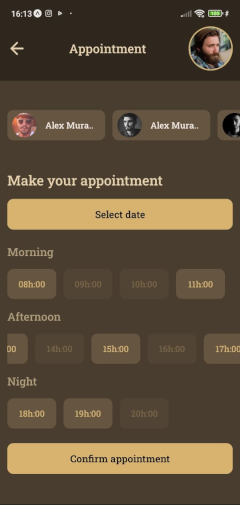
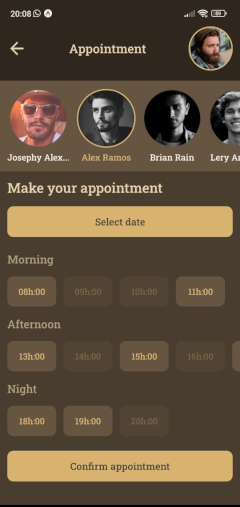
style: mudança no estilo HairDressersSmallCard

diff --git a/src/components/HairdressersSmallCard.tsx b/src/components/HairdressersSmallCard.tsx
@@ -1,14 +1,15 @@
-import React from 'react';
-import { Image, TouchableOpacity } from 'react-native';
+import React, { useState } from 'react';
+import { Image, TouchableOpacity, TouchableOpacityProps, View } from 'react-native';
 
 import { colors } from '../../theme';
 import Title from './Title';
 
-interface HairdressersSmallCardProps {
+interface HairdressersSmallCardProps extends TouchableOpacityProps {
   name: string;
   avatar: string;
   mr?: number;
   ml?: number;
+  isSelected: string;
 }
 
 export default function HairdressersSmallCard({
@@ -16,11 +17,14 @@ export default function HairdressersSmallCard({
   avatar,
   mr,
   ml,
+  isSelected,
+  ...props
 }: HairdressersSmallCardProps) {
   //useEffect(() => {}, []);
+
   function formatAvatarName(name: string) {
-    if (name.length > 11) {
-      return `${name.substring(0, 8)}...`;
+    if (name.length > 15) {
+      return `${name.substring(0, 12)}...`;
     } else {
       return name;
     }
@@ -28,28 +32,30 @@ export default function HairdressersSmallCard({
 
   return (
     <TouchableOpacity
+      {...props}
       style={{
-        flexDirection: 'row',
         alignItems: 'center',
-        backgroundColor: colors.black.shape,
-        width: 175,
-        height: 60,
+        justifyContent: 'center',
         borderRadius: 10,
-        padding: 12,
         marginRight: mr,
         marginLeft: ml,
       }}>
       <Image
         source={{ uri: avatar }}
         style={{
+          borderWidth: 2,
+          borderColor: isSelected === name ? colors.orange : colors.black.shape,
           backgroundColor: colors.black.background,
-          width: 40,
-          height: 40,
-          borderRadius: 40 / 2,
-          marginRight: 14,
+          width: 96,
+          height: 96,
+          borderRadius: 96 / 2,
         }}
       />
-      <Title color={colors.white} fontFamily="RobotoSlab_500Medium" size={14}>
+      <Title
+        color={isSelected === name ? colors.orange : colors.white}
+        fontFamily="RobotoSlab_500Medium"
+        size={14}
+        mt={6}>
         {formatAvatarName(name)}
       </Title>
     </TouchableOpacity>

diff --git a/src/screens/Appointement.tsx b/src/screens/Appointement.tsx
@@ -1,5 +1,5 @@
-import React from 'react';
-import { FlatList, SafeAreaView, View } from 'react-native';
+import React, { useState } from 'react';
+import { FlatList, SafeAreaView, ScrollView, View } from 'react-native';
 
 import AppointmentTimeArray from '../../AppointmentTimeArray';
 import data from '../../HaidressersArray';
@@ -11,6 +11,7 @@ import HeadetTwo from '../components/HeaderTwo';
 import Title from '../components/Title';
 
 export default function Appointement() {
+  const [selectBarber, setSelectBarber] = useState('');
   return (
     <SafeAreaView
       style={{
@@ -19,9 +20,15 @@ export default function Appointement() {
         backgroundColor: colors.black.background,
       }}>
       <HeadetTwo avatar="https://i.pravatar.cc/400?img=13" title="Appointment" />
-      <View style={{ height: 148, alignItems: 'center', justifyContent: 'center' }}>
+      <View
+        style={{
+          height: 148,
+          alignItems: 'center',
+          justifyContent: 'center',
+          backgroundColor: colors.black.shape,
+        }}>
         <FlatList
-          style={{ marginTop: 48 }}
+          style={{ marginVertical: 12 }}
           data={data}
           keyExtractor={(item) => item.name}
           horizontal
@@ -30,20 +37,22 @@ export default function Appointement() {
             const { avatar, name } = item;
             return (
               <HairdressersSmallCard
+                isSelected={selectBarber}
                 avatar={avatar}
                 name={name}
                 mr={12}
                 ml={index === 0 ? 12 : 0}
+                onPress={() => setSelectBarber(name)}
               />
             );
           }}
         />
       </View>
-
       <View
         style={{
           width: '100%',
           paddingHorizontal: 12,
+          marginTop: 12,
         }}>
         <Title color={colors.orangeFont} fontFamily="RobotoSlab_500Medium" size={22} mb={16}>
           Make your appointment
